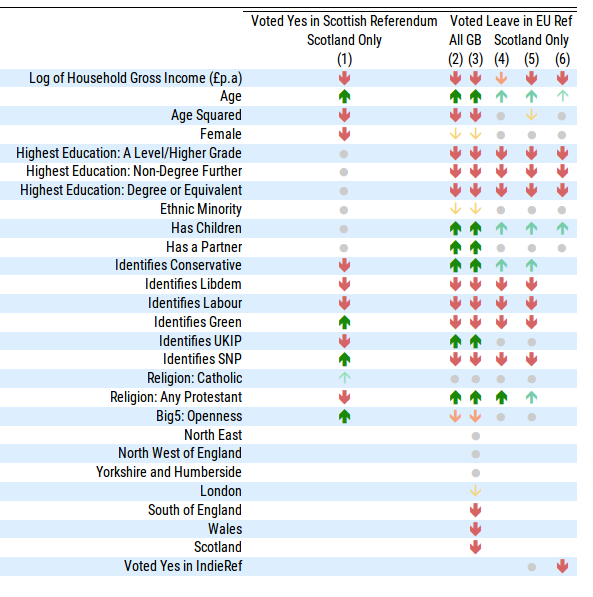
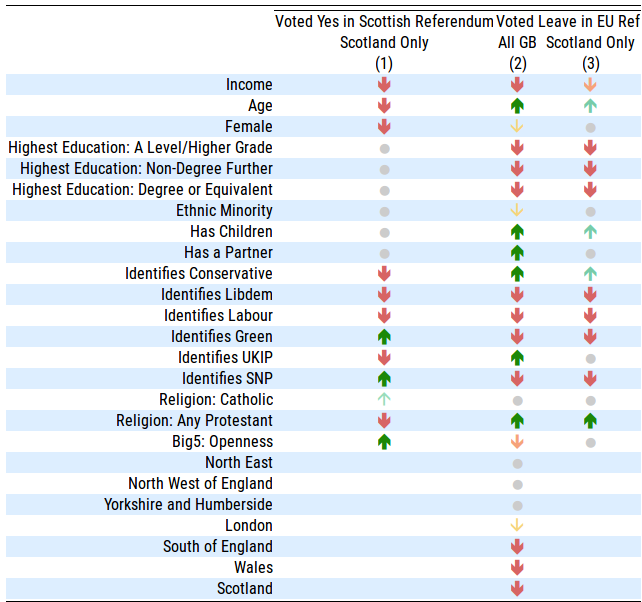
wrong tablecd .. and main outputs x2 added

diff --git a/bes/docs/brexit_vs_indie.md b/bes/docs/brexit_vs_indie.md
@@ -78,377 +78,6 @@ indicators that were associated with a 'Yes' note, but still have voted 'No', an
 
 **Table 1**
 
-<table class='easytable'>
-<thead>
-<tr>
-<td class='col_header' style='border-bottom: 1px solid black' colspan='4'></td>
-</tr>
-<tr>
-<td class='col_header' style='text-align:left'></td>
-<td class='col_header' colspan='3'></td>
-</tr>
-<tr>
-<td class='col_header'></td>
-<td class='col_header' style='border-bottom: 1px solid black' colspan='3'></td>
-</tr>
-<tr>
-<td class='col_header' style='text-align:left'></td>
-<td class='col_header'>Voted Yes in Scottish Referendum</td>
-<td class='col_header' colspan='2'>Voted Leave in EU Ref</td>
-</tr>
-<tr>
-<td class='col_header' style='text-align:left'></td>
-<td class='col_header'>Scotland Only</td>
-<td class='col_header'>All GB</td>
-<td class='col_header'>Scotland Only</td>
-</tr>
-<tr>
-<td class='col_header' style='text-align:left'></td>
-<td class='col_header'>(1)</td>
-<td class='col_header'>(2)</td>
-<td class='col_header'>(3)</td>
-</tr>
-</thead>
-<tbody>
-<tr>
-<th class='row_header'>Income</th>
-<td class='negative_strong'>&#x1F883;</td>
-<td class='negative_strong'>&#x1F883;</td>
-<td class='negative_med'>&#x1F873;</td>
-</tr>
-<tr>
-<th class='row_header'>Age</th>
-<td class='negative_strong'>&#x1F883;</td>
-<td class='positive_strong'>&#x1F881;</td>
-<td class='positive_med'>&#x1F871;</td>
-</tr>
-<tr>
-<th class='row_header'>Female</th>
-<td class='negative_strong'>&#x1F883;</td>
-<td class='negative_weak'>&#x1F863;</td>
-<td class='nonsig'>&#x25CF;</td>
-</tr>
-<tr>
-<th class='row_header'>Highest Education: A Level/Higher Grade</th>
-<td class='nonsig'>&#x25CF;</td>
-<td class='negative_strong'>&#x1F883;</td>
-<td class='negative_strong'>&#x1F883;</td>
-</tr>
-<tr>
-<th class='row_header'>Highest Education: Non-Degree Further</th>
-<td class='nonsig'>&#x25CF;</td>
-<td class='negative_strong'>&#x1F883;</td>
-<td class='negative_strong'>&#x1F883;</td>
-</tr>
-<tr>
-<th class='row_header'>Highest Education: Degree or Equivalent</th>
-<td class='nonsig'>&#x25CF;</td>
-<td class='negative_strong'>&#x1F883;</td>
-<td class='negative_strong'>&#x1F883;</td>
-</tr>
-<tr>
-<th class='row_header'>Ethnic Minority</th>
-<td class='nonsig'>&#x25CF;</td>
-<td class='negative_weak'>&#x1F863;</td>
-<td class='nonsig'>&#x25CF;</td>
-</tr>
-<tr>
-<th class='row_header'>Has Children</th>
-<td class='nonsig'>&#x25CF;</td>
-<td class='positive_strong'>&#x1F881;</td>
-<td class='positive_med'>&#x1F871;</td>
-</tr>
-<tr>
-<th class='row_header'>Has a Partner</th>
-<td class='nonsig'>&#x25CF;</td>
-<td class='positive_strong'>&#x1F881;</td>
-<td class='nonsig'>&#x25CF;</td>
-</tr>
-<tr>
-<th class='row_header'>Identifies Conservative</th>
-<td class='negative_strong'>&#x1F883;</td>
-<td class='positive_strong'>&#x1F881;</td>
-<td class='positive_med'>&#x1F871;</td>
-</tr>
-<tr>
-<th class='row_header'>Identifies Libdem</th>
-<td class='negative_strong'>&#x1F883;</td>
-<td class='negative_strong'>&#x1F883;</td>
-<td class='negative_strong'>&#x1F883;</td>
-</tr>
-<tr>
-<th class='row_header'>Identifies Labour</th>
-<td class='negative_strong'>&#x1F883;</td>
-<td class='negative_strong'>&#x1F883;</td>
-<td class='negative_strong'>&#x1F883;</td>
-</tr>
-<tr>
-<th class='row_header'>Identifies Green</th>
-<td class='positive_strong'>&#x1F881;</td>
-<td class='negative_strong'>&#x1F883;</td>
-<td class='negative_strong'>&#x1F883;</td>
-</tr>
-<tr>
-<th class='row_header'>Identifies UKIP</th>
-<td class='negative_strong'>&#x1F883;</td>
-<td class='positive_strong'>&#x1F881;</td>
-<td class='nonsig'>&#x25CF;</td>
-</tr>
-<tr>
-<th class='row_header'>Identifies SNP</th>
-<td class='positive_strong'>&#x1F881;</td>
-<td class='negative_strong'>&#x1F883;</td>
-<td class='negative_strong'>&#x1F883;</td>
-</tr>
-<tr>
-<th class='row_header'>Religion: Catholic</th>
-<td class='positive_weak'>&#x1F861;</td>
-<td class='nonsig'>&#x25CF;</td>
-<td class='nonsig'>&#x25CF;</td>
-</tr>
-<tr>
-<th class='row_header'>Religion: Any Protestant</th>
-<td class='negative_strong'>&#x1F883;</td>
-<td class='positive_strong'>&#x1F881;</td>
-<td class='positive_strong'>&#x1F881;</td>
-</tr>
-<tr>
-<th class='row_header'>Big5: Openness</th>
-<td class='positive_strong'>&#x1F881;</td>
-<td class='negative_med'>&#x1F873;</td>
-<td class='nonsig'>&#x25CF;</td>
-</tr>
-<tr>
-<th class='row_header'>North East</th>
-<td></td>
-<td class='nonsig'>&#x25CF;</td>
-<td></td>
-</tr>
-<tr>
-<th class='row_header'>North West of England</th>
-<td></td>
-<td class='nonsig'>&#x25CF;</td>
-<td></td>
-</tr>
-<tr>
-<th class='row_header'>Yorkshire and Humberside</th>
-<td></td>
-<td class='nonsig'>&#x25CF;</td>
-<td></td>
-</tr>
-<tr>
-<th class='row_header'>London</th>
-<td></td>
-<td class='negative_weak'>&#x1F863;</td>
-<td></td>
-</tr>
-<tr>
-<th class='row_header'>South of England</th>
-<td></td>
-<td class='negative_strong'>&#x1F883;</td>
-<td></td>
-</tr>
-<tr>
-<th class='row_header'>Wales</th>
-<td></td>
-<td class='negative_strong'>&#x1F883;</td>
-<td></td>
-</tr>
-<tr>
-<th class='row_header'>Scotland</th>
-<td></td>
-<td class='negative_strong'>&#x1F883;</td>
-<td></td>
-</tr>
-</tbody>
-</table>
-<table class='easytable'>
-<thead>
-<tr>
-<td class='col_header' style='border-bottom: 1px solid black' colspan='4'></td>
-</tr>
-<tr>
-<td class='col_header' style='text-align:left'></td>
-<td class='col_header' colspan='3'></td>
-</tr>
-<tr>
-<td class='col_header'></td>
-<td class='col_header' style='border-bottom: 1px solid black' colspan='3'></td>
-</tr>
-<tr>
-<td class='col_header' style='text-align:left'></td>
-<td class='col_header'>Voted Yes in Scottish Referendum</td>
-<td class='col_header' colspan='2'>Voted Leave in EU Ref</td>
-</tr>
-<tr>
-<td class='col_header' style='text-align:left'></td>
-<td class='col_header'>Scotland Only</td>
-<td class='col_header'>All GB</td>
-<td class='col_header'>Scotland Only</td>
-</tr>
-<tr>
-<td class='col_header' style='text-align:left'></td>
-<td class='col_header'>(1)</td>
-<td class='col_header'>(2)</td>
-<td class='col_header'>(3)</td>
-</tr>
-</thead>
-<tbody>
-<tr>
-<th class='row_header'>Log of Household Gross Income (£p.a)</th>
-<td class='negative_strong'>&#x1F883;</td>
-<td class='negative_strong'>&#x1F883;</td>
-<td class='negative_med'>&#x1F873;</td>
-</tr>
-<tr>
-<th class='row_header'>Age</th>
-<td class='negative_strong'>&#x1F883;</td>
-<td class='positive_strong'>&#x1F881;</td>
-<td class='positive_med'>&#x1F871;</td>
-</tr>
-<tr>
-<th class='row_header'>Female</th>
-<td class='negative_strong'>&#x1F883;</td>
-<td class='negative_weak'>&#x1F863;</td>
-<td class='nonsig'>&#x25CF;</td>
-</tr>
-<tr>
-<th class='row_header'>Highest Education: A Level/Higher Grade</th>
-<td class='nonsig'>&#x25CF;</td>
-<td class='negative_strong'>&#x1F883;</td>
-<td class='negative_strong'>&#x1F883;</td>
-</tr>
-<tr>
-<th class='row_header'>Highest Education: Non-Degree Further</th>
-<td class='nonsig'>&#x25CF;</td>
-<td class='negative_strong'>&#x1F883;</td>
-<td class='negative_strong'>&#x1F883;</td>
-</tr>
-<tr>
-<th class='row_header'>Highest Education: Degree or Equivalent</th>
-<td class='nonsig'>&#x25CF;</td>
-<td class='negative_strong'>&#x1F883;</td>
-<td class='negative_strong'>&#x1F883;</td>
-</tr>
-<tr>
-<th class='row_header'>Ethnic Minority</th>
-<td class='nonsig'>&#x25CF;</td>
-<td class='negative_weak'>&#x1F863;</td>
-<td class='nonsig'>&#x25CF;</td>
-</tr>
-<tr>
-<th class='row_header'>Has Children</th>
-<td class='nonsig'>&#x25CF;</td>
-<td class='positive_strong'>&#x1F881;</td>
-<td class='positive_med'>&#x1F871;</td>
-</tr>
-<tr>
-<th class='row_header'>Has a Partner</th>
-<td class='nonsig'>&#x25CF;</td>
-<td class='positive_strong'>&#x1F881;</td>
-<td class='nonsig'>&#x25CF;</td>
-</tr>
-<tr>
-<th class='row_header'>Identifies Conservative</th>
-<td class='negative_strong'>&#x1F883;</td>
-<td class='positive_strong'>&#x1F881;</td>
-<td class='positive_med'>&#x1F871;</td>
-</tr>
-<tr>
-<th class='row_header'>Identifies Libdem</th>
-<td class='negative_strong'>&#x1F883;</td>
-<td class='negative_strong'>&#x1F883;</td>
-<td class='negative_strong'>&#x1F883;</td>
-</tr>
-<tr>
-<th class='row_header'>Identifies Labour</th>
-<td class='negative_strong'>&#x1F883;</td>
-<td class='negative_strong'>&#x1F883;</td>
-<td class='negative_strong'>&#x1F883;</td>
-</tr>
-<tr>
-<th class='row_header'>Identifies Green</th>
-<td class='positive_strong'>&#x1F881;</td>
-<td class='negative_strong'>&#x1F883;</td>
-<td class='negative_strong'>&#x1F883;</td>
-</tr>
-<tr>
-<th class='row_header'>Identifies UKIP</th>
-<td class='negative_strong'>&#x1F883;</td>
-<td class='positive_strong'>&#x1F881;</td>
-<td class='nonsig'>&#x25CF;</td>
-</tr>
-<tr>
-<th class='row_header'>Identifies SNP</th>
-<td class='positive_strong'>&#x1F881;</td>
-<td class='negative_strong'>&#x1F883;</td>
-<td class='negative_strong'>&#x1F883;</td>
-</tr>
-<tr>
-<th class='row_header'>Religion: Catholic</th>
-<td class='positive_weak'>&#x1F861;</td>
-<td class='nonsig'>&#x25CF;</td>
-<td class='nonsig'>&#x25CF;</td>
-</tr>
-<tr>
-<th class='row_header'>Religion: Any Protestant</th>
-<td class='negative_strong'>&#x1F883;</td>
-<td class='positive_strong'>&#x1F881;</td>
-<td class='positive_strong'>&#x1F881;</td>
-</tr>
-<tr>
-<th class='row_header'>Big5: Openness</th>
-<td class='positive_strong'>&#x1F881;</td>
-<td class='negative_med'>&#x1F873;</td>
-<td class='nonsig'>&#x25CF;</td>
-</tr>
-<tr>
-<th class='row_header'>North East</th>
-<td></td>
-<td class='nonsig'>&#x25CF;</td>
-<td></td>
-</tr>
-<tr>
-<th class='row_header'>North West of England</th>
-<td></td>
-<td class='nonsig'>&#x25CF;</td>
-<td></td>
-</tr>
-<tr>
-<th class='row_header'>Yorkshire and Humberside</th>
-<td></td>
-<td class='nonsig'>&#x25CF;</td>
-<td></td>
-</tr>
-<tr>
-<th class='row_header'>London</th>
-<td></td>
-<td class='negative_weak'>&#x1F863;</td>
-<td></td>
-</tr>
-<tr>
-<th class='row_header'>South of England</th>
-<td></td>
-<td class='negative_strong'>&#x1F883;</td>
-<td></td>
-</tr>
-<tr>
-<th class='row_header'>Wales</th>
-<td></td>
-<td class='negative_strong'>&#x1F883;</td>
-<td></td>
-</tr>
-<tr>
-<th class='row_header'>Scotland</th>
-<td></td>
-<td class='negative_strong'>&#x1F883;</td>
-<td></td>
-</tr>
-</tbody>
-</table>
-
-
-
 ![](http://virtual-worlds.biz/scot/images/main_table.png)
 
 ![](http://virtual-worlds.biz/scot/images/key.png)
